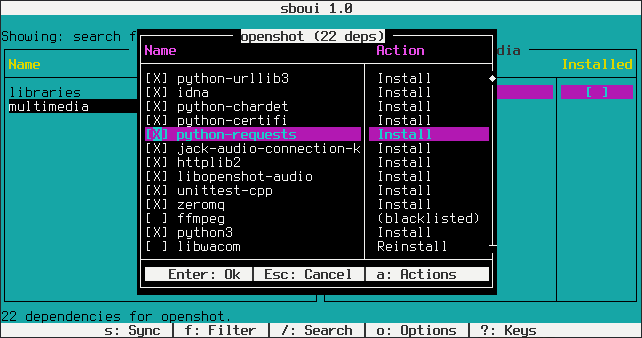
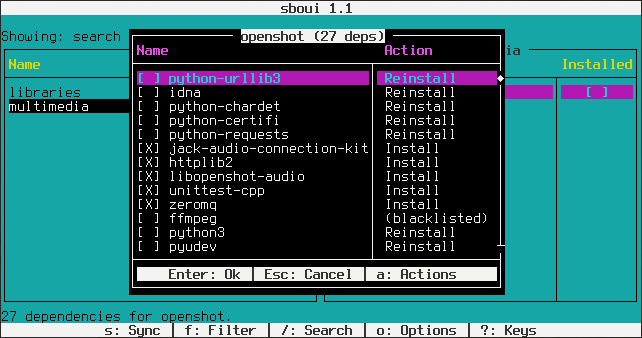
Update documentation and screenshots for version 1.1

Changed region(s): [[0.1869, 0.0888, 0.81, 0.8876], [0.5919, 0.1183, 0.6854, 0.1775], [0.5296, 0.0, 0.5607, 0.0296]]

diff --git a/README.md b/README.md
@@ -82,9 +82,9 @@ information.
 
 Using sboui with custom package managers
 ================================================================================
-sboui is designed for and tested to work with sbopkg and sbotools, but it is
-also easy to use it with custom package managers or scripts. There are just a
-few requirements:
+sboui is designed for and tested to work with sbopkg, sbotools, and
+sboui-backend, but it is also easy to use it with custom package managers or
+scripts. These requirements need to be met:
 
 * The package manager must store a local copy of the SlackBuilds.org repository
   with a directory structure as follows: top level (includes subdirectories for
@@ -109,6 +109,9 @@ few requirements:
   the install command, and the two commands can actually be the same (such is
   the case with sbopkg), unless the package manager doesn't permit the install
   command to also be used for upgrades.
+* The package manager must implement a reinstall command to build and reinstall
+  the software package. This can be the same as the upgrade and install
+  commands depending on how they are implemented.
 
 In addition to what is listed above, each of the above commands should ideally
 do the following for the best user experience:
@@ -119,8 +122,8 @@ do the following for the best user experience:
   succeeded when it actually did not.
 * These commands should not present the user with any prompts or questions. (If
   they do by default, this behavior should be disabled in the specification of
-  sync_cmd, install_cmd, and upgrade_cmd when used with sboui.) Otherwise,
-  there may be duplicate prompts from sboui and the package manager.
+  sync_cmd, install_cmd, upgrade_cmd, and reinstall_cmd when used with sboui.) =
+  Otherwise, there will be duplicate prompts from sboui and the package manager.
 
 Screenshots
 ================================================================================
@@ -129,3 +132,4 @@ Screenshots
 ![alt tag](https://raw.githubusercontent.com/montagdude/sboui/master/screenshots/search.png)
 ![alt tag](https://raw.githubusercontent.com/montagdude/sboui/master/screenshots/install.png)
 ![alt tag](https://raw.githubusercontent.com/montagdude/sboui/master/screenshots/options.png)
+![alt tag](https://raw.githubusercontent.com/montagdude/sboui/master/screenshots/package_info.png)
